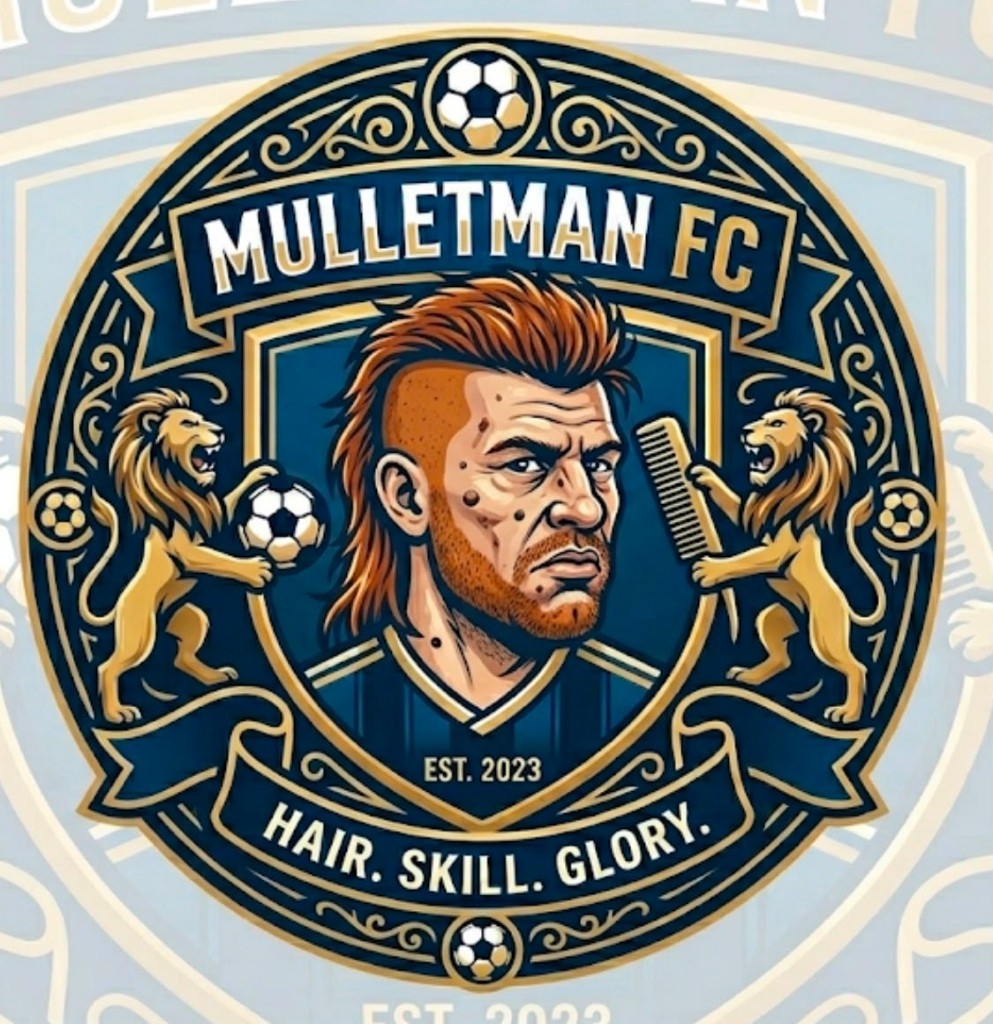
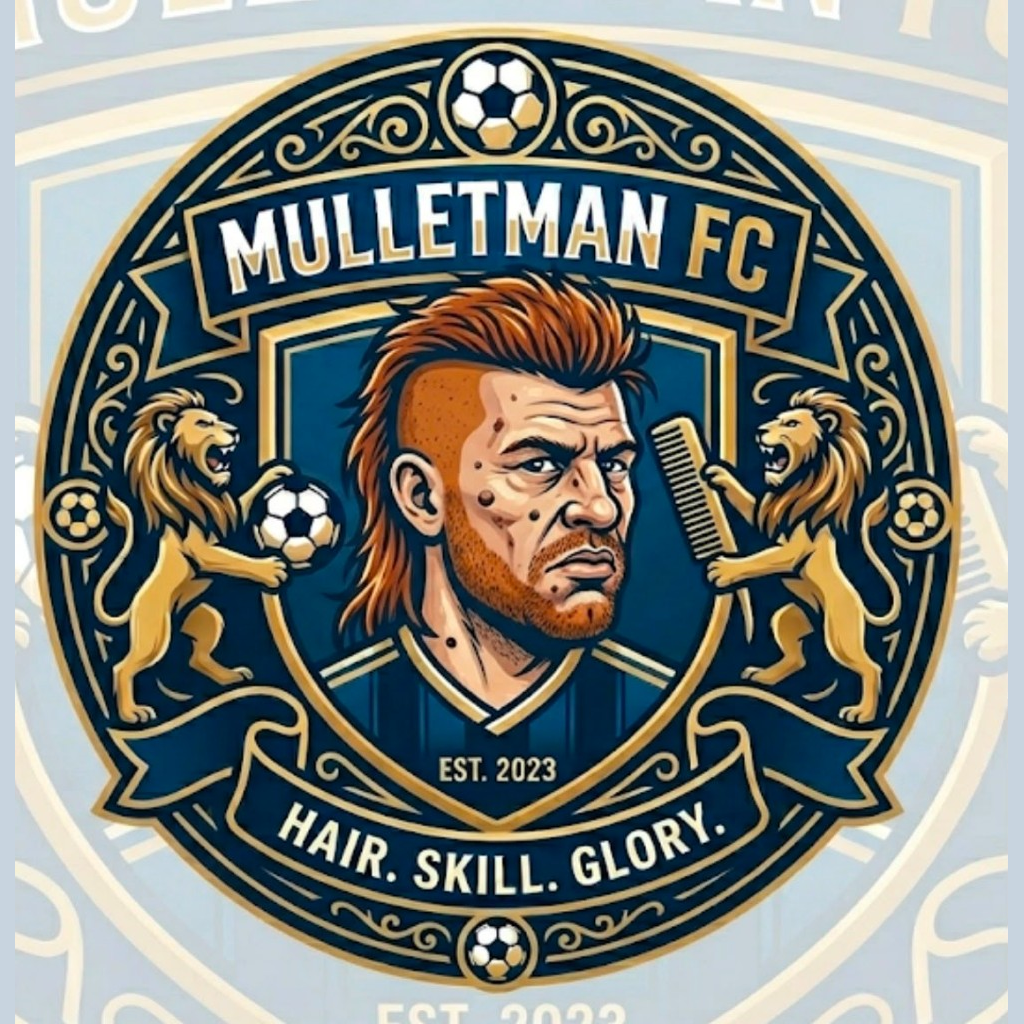
Stop crest stretch using background-size contain.
Render club crests as non-stretching background images, pad Mulletman PNG to 1024 square, and cache-bust the asset.

diff --git a/app/components/WorldCupFantasy.tsx b/app/components/WorldCupFantasy.tsx
@@ -1156,6 +1156,7 @@ function ImageLightbox({
   aspectClass = 'aspect-[3/4]',
   imageClassName = '',
   useNativeImage = false,
+  useBackgroundImage = false,
 }: {
   src: string;
   label: string;
@@ -1163,6 +1164,7 @@ function ImageLightbox({
   aspectClass?: string;
   imageClassName?: string;
   useNativeImage?: boolean;
+  useBackgroundImage?: boolean;
 }) {
   useEffect(() => {
     const onKeyDown = (event: KeyboardEvent) => {
@@ -1193,9 +1195,16 @@ function ImageLightbox({
             aspectClass === 'aspect-square'
               ? 'aspect-square'
               : `${aspectClass} max-h-[calc(100dvh-7rem)]`
-          } ${useNativeImage ? 'flex items-center justify-center' : ''}`}
+          } ${useNativeImage || useBackgroundImage ? 'flex items-center justify-center' : ''}`}
         >
-          {useNativeImage ? (
+          {useBackgroundImage ? (
+            <span
+              className={`absolute inset-3 block bg-contain bg-center bg-no-repeat sm:inset-4 ${imageClassName}`}
+              style={{ backgroundImage: `url(${src})` }}
+              role="img"
+              aria-label={label}
+            />
+          ) : useNativeImage ? (
             <img
               src={src}
               alt={label}
@@ -1259,15 +1268,12 @@ function PlayerSquadCard({
               className="relative aspect-square w-full min-w-0 cursor-zoom-in overflow-hidden rounded-lg border border-neutral-700/80 bg-neutral-900 transition hover:border-teal-600/60 hover:ring-2 hover:ring-teal-600/30 sm:size-32 md:size-36"
               aria-label={`View enlarged ${managerLabel} club crest`}
             >
-              <span className="absolute inset-0 flex items-center justify-center p-2.5 sm:p-3">
-                {/* Match PartnerBrandTile: max-* + object-contain only — never h-full w-full on crests. */}
-                <img
-                  src={player.clubCrest}
-                  alt=""
-                  decoding="async"
-                  className="max-h-full max-w-full object-contain"
-                />
-              </span>
+              {/* background-size: contain cannot stretch — avoids img flex sizing bugs on mobile */}
+              <span
+                className="absolute inset-2.5 block bg-contain bg-center bg-no-repeat sm:inset-3"
+                style={{ backgroundImage: `url(${player.clubCrest})` }}
+                aria-hidden
+              />
             </button>
           </div>
           <div className="min-w-0">
@@ -1317,8 +1323,7 @@ function PlayerSquadCard({
           src={player.clubCrest}
           label={`${managerLabel} crest`}
           aspectClass="aspect-square"
-          imageClassName="p-3 sm:p-4"
-          useNativeImage
+          useBackgroundImage
           onClose={() => setEnlarged(null)}
         />
       ) : null}

diff --git a/app/data/english-pyramid-fantasy.ts b/app/data/english-pyramid-fantasy.ts
@@ -224,7 +224,7 @@ export const ENGLISH_PYRAMID_FANTASY_PLAYERS: readonly EnglishPyramidFantasyPlay
     name: 'Ben',
     teamName: 'Mulletman FC',
     managerImage: '/images/world-cup-fantasy/managers/ben.png',
-    clubCrest: '/images/world-cup-fantasy/crests/mulletman-fc.png',
+    clubCrest: '/images/world-cup-fantasy/crests/mulletman-fc.png?v=5',
     teams: ['NEW', 'WHU', 'SHW', 'ROT', 'BORE', 'DAR', 'EBB'],
     draftNote:
       'Newcastle as the #7 Premier League pick, but West Ham #1 in the Championship and Wednesday #2 in League One — Rotherham, Boreham Wood and Darlington fill the ladder, Ebbsfleet the southern long shot.',
